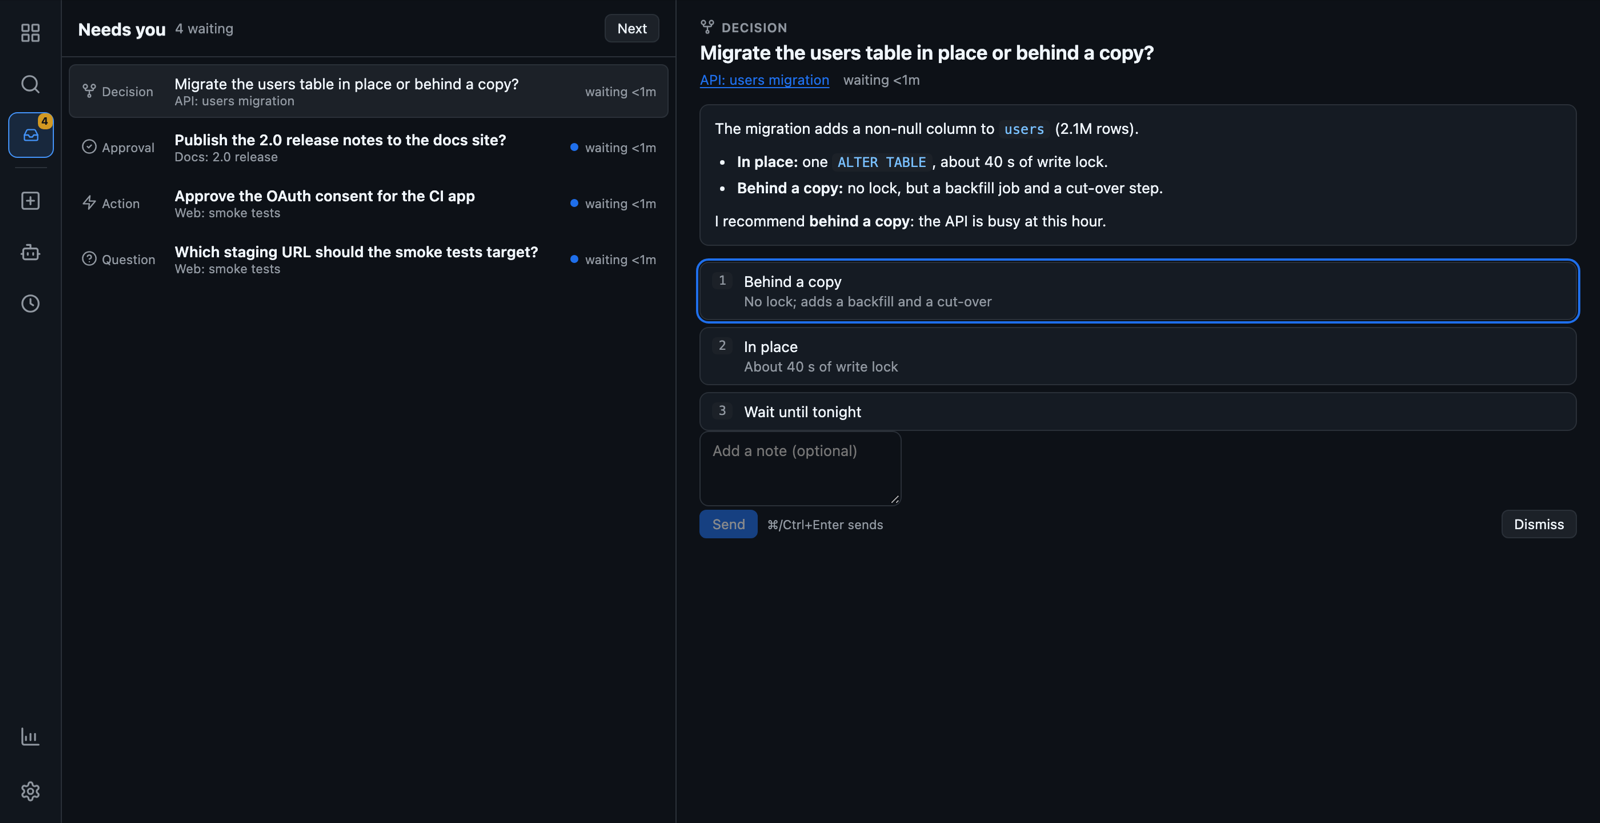
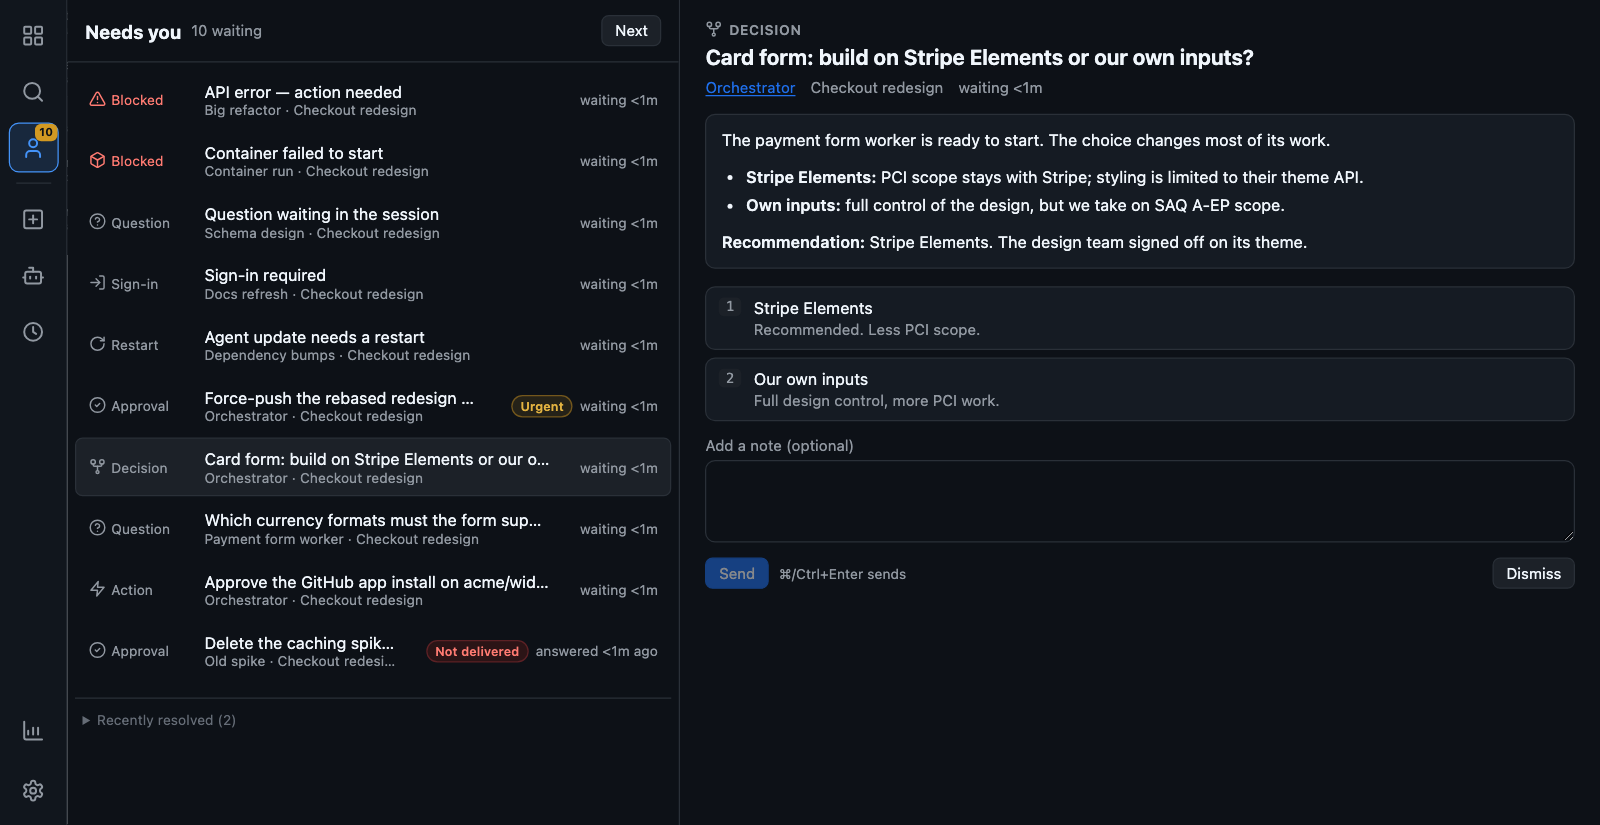
0.1.2: version, changelog, notes; README screenshot from e2e; terminal box spacing
- e2e writes readme.png; E2E_README=1 e2e/run.sh copies it to docs/notes/needs-you.png
- The README screenshot now shows the 0.1.2 view
- .ibx-terminal-text: pre-wrap on the paragraph, not the box (no blank line)
- docs/notes/ui.md, testing.md and the fixes-0.1.2 spec status updated

diff --git a/public/styles.css b/public/styles.css
@@ -99,8 +99,10 @@
 .ibx-d-guidance { margin: 0; font-size: 13px; line-height: var(--prose-leading, 1.55); }
 .ibx-from-terminal { display: flex; flex-direction: column; gap: 6px; }
 .ibx-from-terminal-head { margin: 0; font-size: 11px; font-weight: 600; text-transform: uppercase; letter-spacing: 0.04em; color: var(--fg-muted); }
-.ibx-terminal-text { white-space: pre-wrap; font-family: var(--font-mono, monospace); font-size: 12px; }
-.ibx-terminal-text :is(p, pre) { margin: 0; }
+.ibx-terminal-text { font-family: var(--font-mono, monospace); font-size: 12px; }
+/* pre-wrap on the paragraph, not the box: the rendered markdown has a newline
+   after </p>, which a pre-wrap box would show as a blank line. */
+.ibx-terminal-text :is(p, pre) { margin: 0; white-space: pre-wrap; }
 .ibx-body { font-size: 13px; line-height: var(--prose-leading, 1.55); overflow-wrap: anywhere; padding: 10px 12px; border-radius: 8px; background: var(--surface); border: 1px solid var(--border-muted); }
 .ibx-body > :first-child { margin-top: 0; }
 .ibx-body > :last-child { margin-bottom: 0; }

diff --git a/docs/notes/ui.md b/docs/notes/ui.md
@@ -5,6 +5,17 @@ The non-obvious decisions behind `public/index.js`, `public/inbox-*.js`,
 
 ## Queue order and states
 
+- Tiers (0.1.2, F4): every status item **and** every high-urgency agent request
+  are tier 0, oldest first. So an urgent request raised after older status
+  items sorts below them, but above every other request. Then come normal
+  blocking requests, then non-blocking ones, then failed deliveries.
+- An urgent request shows an **Urgent** tag on its row and in its detail, and
+  the card pill takes the warning colour while its session has one open.
+- At desktop width (two panes), the view selects the first item when nothing
+  is selected (0.1.2, F5). The auto-picked item is not marked read until you
+  act on it. At phone width the list shows first.
+- **Next** is disabled (`aria-disabled`) when nothing is waiting, or only the
+  selected item is (F8).
 - An answer still being delivered leaves the queue and shows as "sending"
   under **Recently resolved**. A failed delivery comes back as the last tier of
   the queue, with **Retry**.
@@ -19,6 +30,35 @@ The non-obvious decisions behind `public/index.js`, `public/inbox-*.js`,
 - A MutationObserver focuses the view when it's shown. That is also when a
   pending selection (from a card pill) lands, and when items are
   marked read: an item counts as read once it has been on screen.
+
+## Status items (0.1.2)
+
+- The label, icon and colour come from `status.cause`, which reconcile sets
+  (F1): Permission, Question, Trust, Sign-in, Restart, Waiting, and **Blocked**
+  for a container failure or a blocking API error (a transient one says
+  Error). Only those two causes are red. An item without a cause shows as
+  Waiting.
+- The detail gives one sentence saying what to do, chosen by cause (F2). Under
+  it, "From the terminal" shows the terminal text once. Reconcile leaves the
+  body empty when the text is only core's phrase (`permission prompt`, `input
+  needed`, `trust dialog`), so there is no box then. The body is
+  markdown-escaped by reconcile, so it goes through `api.ui.markdownPreview`.
+  `white-space: pre-wrap` sits on the paragraph, not the box, or the newline
+  after `</p>` shows as a blank line.
+
+## Answering
+
+- The text box is full width with a visible label (F6): "Your answer" for an
+  open question, "Add a note (optional)" when there are options. There is a
+  12 px gap before the box and before the button row.
+- An `action` request with no options has a main **Done** button (F9). It sends
+  `done`, or `done` plus the note. **Send** stays as a secondary button.
+- A non-blocking request says "The agent is still working." under its header.
+- A failed delivery names the session (F3). If the session is archived
+  (`graph.history`, a session marked archived, or "archived" in the error), the
+  text says to restore it then retry, or dismiss, and **Dismiss** is the main
+  button. The row says "answered <age> ago", and the "Not delivered" tag is a
+  tinted danger chip (contrast 6.9 Dark, 5.9 Light).
 
 ## Dismissing
 
@@ -64,24 +104,27 @@ control router (a refused answer, for example) are the board's own and stay.
   title, session and task, the body (sanitised markdown), the options with the
   chosen one marked, the note, the `waitingFor` text for a status item, and how
   and when it closed (reason label, a `<time>` with the absolute local time,
-  and a relative age the tick keeps moving). The only buttons are **Open
-  session** and **Back to queue**. `e` and the number keys do nothing there.
+  and a relative age the tick keeps moving). It has no buttons (0.1.2, F11, at
+  the human's request): the header's session link opens the session, and the
+  list is beside it. `Enter` focuses that link. `e` and the number keys do
+  nothing there.
 - "Read-only" is anything resolved, or answered and still sending. A failed
   delivery is back in the queue with **Retry**.
 - `j`/`k` walk the queue and then the strip, but only while the strip is
   expanded. A resolved item stays selected across ticks. A queued item that
   leaves the queue still moves the selection on, as before.
-- **Back to queue** selects the top of the queue (or nothing, if it is empty)
-  and focuses its row.
 
 ## Card menu and spawner names
 
 - A spawner's name comes from `graph.inbox.sessions`, which lists every
   listed session's spawner (0.1.1). It falls back to `graph.sessions`, then
   to a short id.
-- The card menu's "can ask" item reads `canAskOverride`: the hint is "default"
-  only when it is `null`, and **Use default** (`allowed: null`) shows only when
-  an override exists, including on a top-level session the human turned off.
+- The card menu has one "can ask" item on every listed card (0.1.2, F7), with
+  the silhouette icon. Core's `.context-menu-item svg` sizes it to 15 px, like
+  its own items. The label names the state the click moves to, and the hint
+  names the current state (the table is in `docs/specs/ws4-inbox-ui.md`).
+  Setting an override always gives the non-default state, so clearing it
+  (`allowed: null`) is the way back, and there is no **Use default** item.
 
 ## Test fixtures
 

diff --git a/CHANGELOG.md b/CHANGELOG.md
@@ -1,6 +1,41 @@
 # Changelog
 
-## 0.1.1 (unreleased)
+## 0.1.2 (unreleased)
+
+Fixes from the e2e screenshot walk-through and the human's review of it
+(`docs/specs/fixes-0.1.2.md`). Same host API (`^1.57.0`) and capabilities.
+
+### Changed
+
+- **Status items say what they are (F1).** Each has a `status.cause`
+  (permission, question, trust, sign-in, update, container, api-error, other).
+  The queue labels it Permission, Question, Trust, Sign-in, Restart or Waiting.
+  Only a container failure or an API error reads Blocked, in red.
+- **Status items say what to do (F2).** One sentence per cause, then the
+  terminal text once, under "From the terminal". Core's bare phrases are no
+  longer repeated.
+- **Failed deliveries (F3).** A readable tag, the session's name, and, for an
+  archived session, Dismiss as the main button. The row says when you
+  answered.
+- **Urgent requests (F4)** show an Urgent tag, colour the card pill, and sort
+  with the status items.
+- **The queue opens on its first item (F5)** at desktop width.
+- **Answer box (F6).** Full width, labelled, with room above Send.
+- **Card menu (F7).** One "can ask" item with an icon, on every card. Its label
+  says what the click does, and its hint the current state. "Use default" is
+  gone.
+- **Next is disabled (F8)** when nothing is waiting.
+- **Done button (F9)** for action requests. Non-blocking requests say the agent
+  is still working.
+- **Resolved items have no buttons (F11).**
+- The rail icon is sized like core's rail icons.
+
+### Added
+
+- `e2e/`: a screenshot walk-through of every interruption type in headless
+  Chromium. It also regenerates the README screenshot.
+
+## 0.1.1
 
 Fixes from the first live tests on a real board (`docs/specs/fixes-0.1.1.md`).
 Same host API (`^1.57.0`) and capabilities.

diff --git a/docs/specs/fixes-0.1.2.md b/docs/specs/fixes-0.1.2.md
@@ -1,6 +1,6 @@
 # Fixes for 0.1.2
 
-Status: **draft** · Source: the e2e screenshot walk-through (`e2e/run.sh`, 2026-11-03) and the
+Status: **done**: merged on 2026-11-03. All of F1–F11 are in. Accepted deviations: F1 shows 6 labels, not 7 (container and blocking API error are both Blocked, per the table); F4 sorts tier 0 oldest first, so the urgent approval follows older status items. · Source: the e2e screenshot walk-through (`e2e/run.sh`, 2026-11-03) and the
 human's review of it. Screenshot numbers refer to the files in `e2e/screens/`. Every fix goes
 through the verification gate. Contract changes are marked; only the orchestrator edits
 `01-contracts.md`.

diff --git a/docs/notes/testing.md b/docs/notes/testing.md
@@ -82,6 +82,10 @@ an agent.
 2. Run `AW_REPO=<agent-wrangler checkout> e2e/run.sh`.
 3. Open `e2e/screens/`. `INDEX.txt` says what each screenshot shows.
 
+The run also writes `readme.png`, the README's screenshot. To replace
+`docs/notes/needs-you.png` with it, run `E2E_README=1 AW_REPO=<agent-wrangler
+checkout> e2e/run.sh`. Do this when the view changes.
+
 The script ends with exit code 0 when every expectation is met. To look at the
 board yourself, set `E2E_SERVE=1`. The script then prints the board URL and
 waits.
